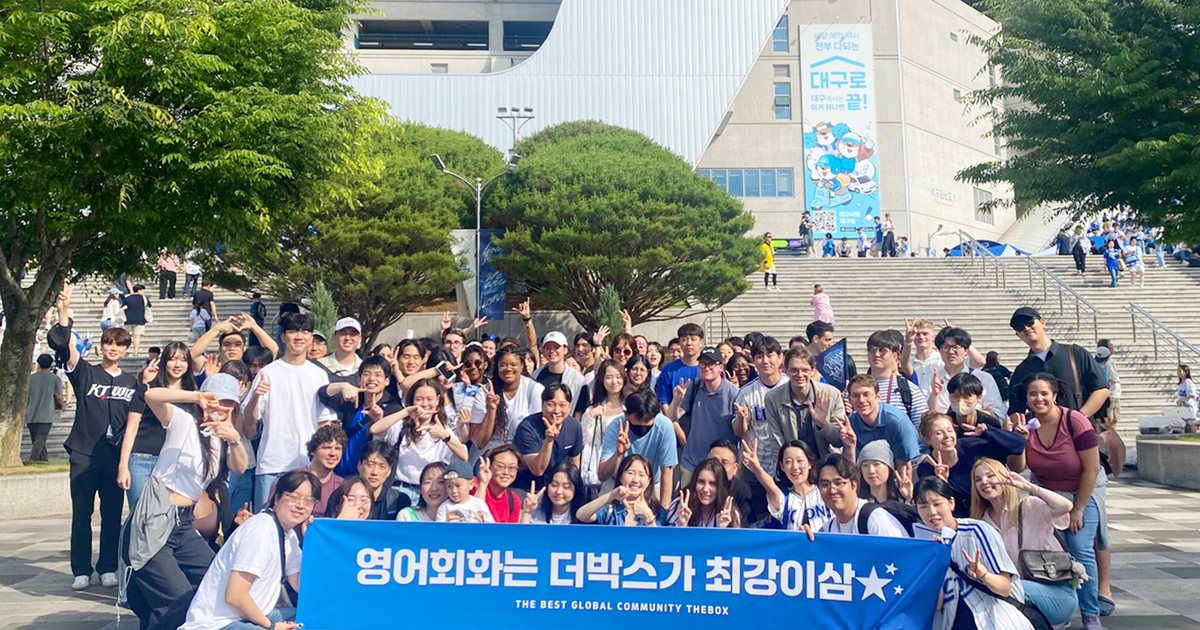
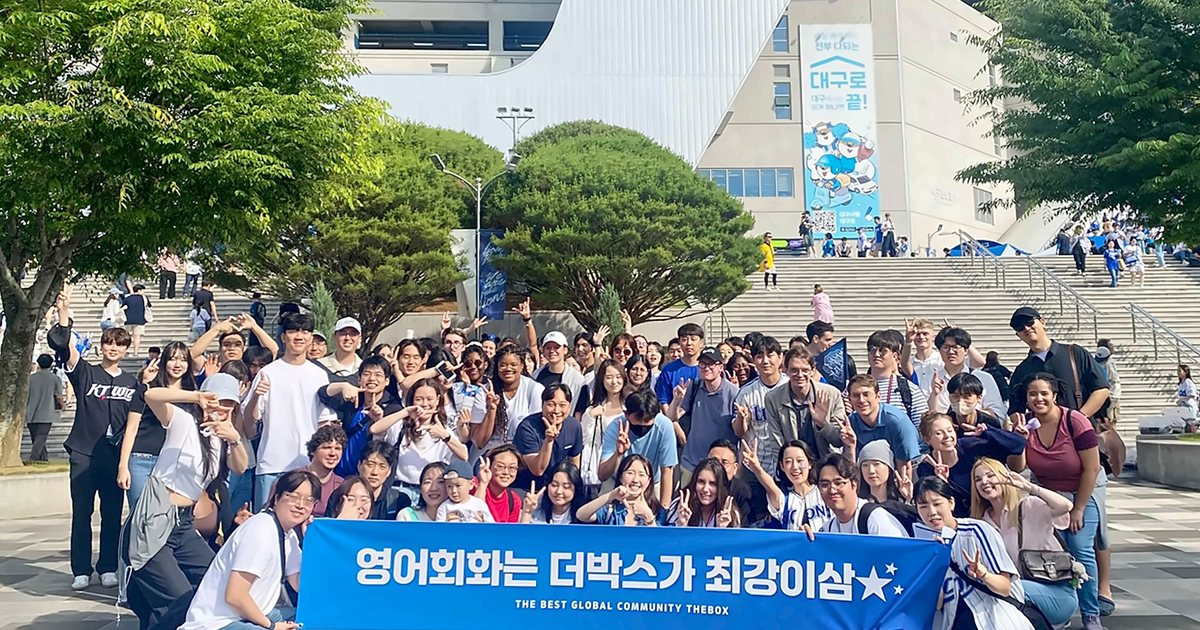
Sharpen hero photo without generative upscaling
The source JPG is an upscaled phone photo. Downscale to 2000px, light denoise
and luminance-only unsharp mask (OpenCV), so faces and banner text are unchanged.
Fallback JPG drops from 4.8MB to 0.7MB. Link preview image uses the same version.

diff --git a/index.html b/index.html
@@ -1,8 +1,8 @@
 <!doctype html>
-<html lang="en"><head><meta charset="utf-8"><meta name="viewport" content="width=device-width,initial-scale=1"><meta name="theme-color" content="#ef2f27"><meta name="description" content="Learn Korean, meet people, and experience Daegu with THEBOX Community."><meta property="og:title" content="THEBOX Community — Learn Korean. Meet Daegu."><meta property="og:description" content="Korean classes, language exchange, and real community experiences in Daegu."><meta property="og:type" content="website"><meta property="og:image" content="https://lccthebox.github.io/community/assets/og-image.jpg"><meta name="twitter:card" content="summary_large_image"><link rel="canonical" href="https://lccthebox.github.io/community/"><title>THEBOX Community — Learn Korean. Meet Daegu.</title><link rel="preload" as="image" href="beswt_community.webp" fetchpriority="high"><link rel="preconnect" href="https://fonts.googleapis.com"><link rel="preconnect" href="https://fonts.gstatic.com" crossorigin><link href="https://fonts.googleapis.com/css2?family=Inter:wght@400;500;600;700;800;900&display=swap" rel="stylesheet"><link rel="stylesheet" href="overhaul.css"></head>
+<html lang="en"><head><meta charset="utf-8"><meta name="viewport" content="width=device-width,initial-scale=1"><meta name="theme-color" content="#ef2f27"><meta name="description" content="Learn Korean, meet people, and experience Daegu with THEBOX Community."><meta property="og:title" content="THEBOX Community — Learn Korean. Meet Daegu."><meta property="og:description" content="Korean classes, language exchange, and real community experiences in Daegu."><meta property="og:type" content="website"><meta property="og:image" content="https://lccthebox.github.io/community/assets/og-image.jpg"><meta name="twitter:card" content="summary_large_image"><link rel="canonical" href="https://lccthebox.github.io/community/"><title>THEBOX Community — Learn Korean. Meet Daegu.</title><link rel="preload" as="image" href="beswt_community-hd.webp" fetchpriority="high"><link rel="preconnect" href="https://fonts.googleapis.com"><link rel="preconnect" href="https://fonts.gstatic.com" crossorigin><link href="https://fonts.googleapis.com/css2?family=Inter:wght@400;500;600;700;800;900&display=swap" rel="stylesheet"><link rel="stylesheet" href="overhaul.css"></head>
 <body><header class="site-header"><a class="brand" href="#top" aria-label="THEBOX Community home"><span>THE</span>BOX <b>COMMUNITY</b></a><nav id="primary-nav" aria-label="Primary navigation"><a href="#programs">Programs</a><a href="#how">How it works</a><a href="#stories">Stories</a></nav><button class="menu-toggle" aria-expanded="false" aria-controls="primary-nav" aria-label="Open navigation"><svg viewBox="0 0 24 24" aria-hidden="true"><path d="M4 7h16M4 12h16M4 17h16"/></svg></button><button class="button button-small" data-open-form>Join us</button></header>
 <main id="top">
-<section class="hero section-pad"><div class="hero-copy reveal"><p class="eyebrow">THEBOX · DAEGU COMMUNITY</p><h1>Learn Korean.<br><em>Meet Daegu.</em></h1><p class="lead">Korean classes, language exchange, and real community experiences—all in one place.</p><div class="actions"><a class="button" href="#programs">Find your program</a><a class="text-link" href="https://thebox-go.vercel.app/" target="_blank" rel="noopener">See upcoming events <span>↗</span></a></div><dl class="hero-stats"><div><dt>10+</dt><dd>years in Daegu</dd></div><div><dt>40+</dt><dd>countries connected</dd></div><div><dt>Weekly</dt><dd>classes & meetups</dd></div></dl></div><figure class="hero-media reveal"><img src="beswt_community.webp" data-fallback-src="beswt_community.jpg" alt="THEBOX members with the community banner outside Daegu Samsung Lions Park" width="1600" height="1132" fetchpriority="high"><figcaption><span>Real people</span><span>Real Korean</span><span>Real Daegu</span></figcaption></figure></section>
+<section class="hero section-pad"><div class="hero-copy reveal"><p class="eyebrow">THEBOX · DAEGU COMMUNITY</p><h1>Learn Korean.<br><em>Meet Daegu.</em></h1><p class="lead">Korean classes, language exchange, and real community experiences—all in one place.</p><div class="actions"><a class="button" href="#programs">Find your program</a><a class="text-link" href="https://thebox-go.vercel.app/" target="_blank" rel="noopener">See upcoming events <span>↗</span></a></div><dl class="hero-stats"><div><dt>10+</dt><dd>years in Daegu</dd></div><div><dt>40+</dt><dd>countries connected</dd></div><div><dt>Weekly</dt><dd>classes & meetups</dd></div></dl></div><figure class="hero-media reveal"><img src="beswt_community-hd.webp" data-fallback-src="beswt_community-hd.jpg" alt="THEBOX members with the community banner outside Daegu Samsung Lions Park" width="2000" height="1414" fetchpriority="high"><figcaption><span>Real people</span><span>Real Korean</span><span>Real Daegu</span></figcaption></figure></section>
 <section class="ticker"><span>THEBOX COMMUNITY</span><i></i><span>KOREAN CLASSES</span><i></i><span>LANGUAGE EXCHANGE</span><i></i><span>THEBOX GO</span></section>
 <section class="programs section-pad" id="programs"><div class="section-head reveal"><p class="eyebrow">CHOOSE YOUR WAY IN</p><h2>Start with what<br>you need now.</h2><p>Study with structure or meet people through conversation. You can always do both.</p></div><div class="program-grid">
 <article class="program-card reveal"><img src="koreanclass1.webp" data-fallback-src="koreanclass1.jpg" alt="International students in a THEBOX Korean class" width="1600" height="900" decoding="async"><div class="program-body"><p class="number">01</p><h3>Korean classes</h3><p>Small-group lessons built around real life in Korea—not just a textbook.</p><ul><li>Beginner to intermediate</li><li>Practical speaking focus</li><li>Weekday schedules</li></ul><a class="card-link" href="https://learnkorean.theboxis.com/" target="_blank" rel="noopener">Explore classes <span>→</span></a></div></article>
